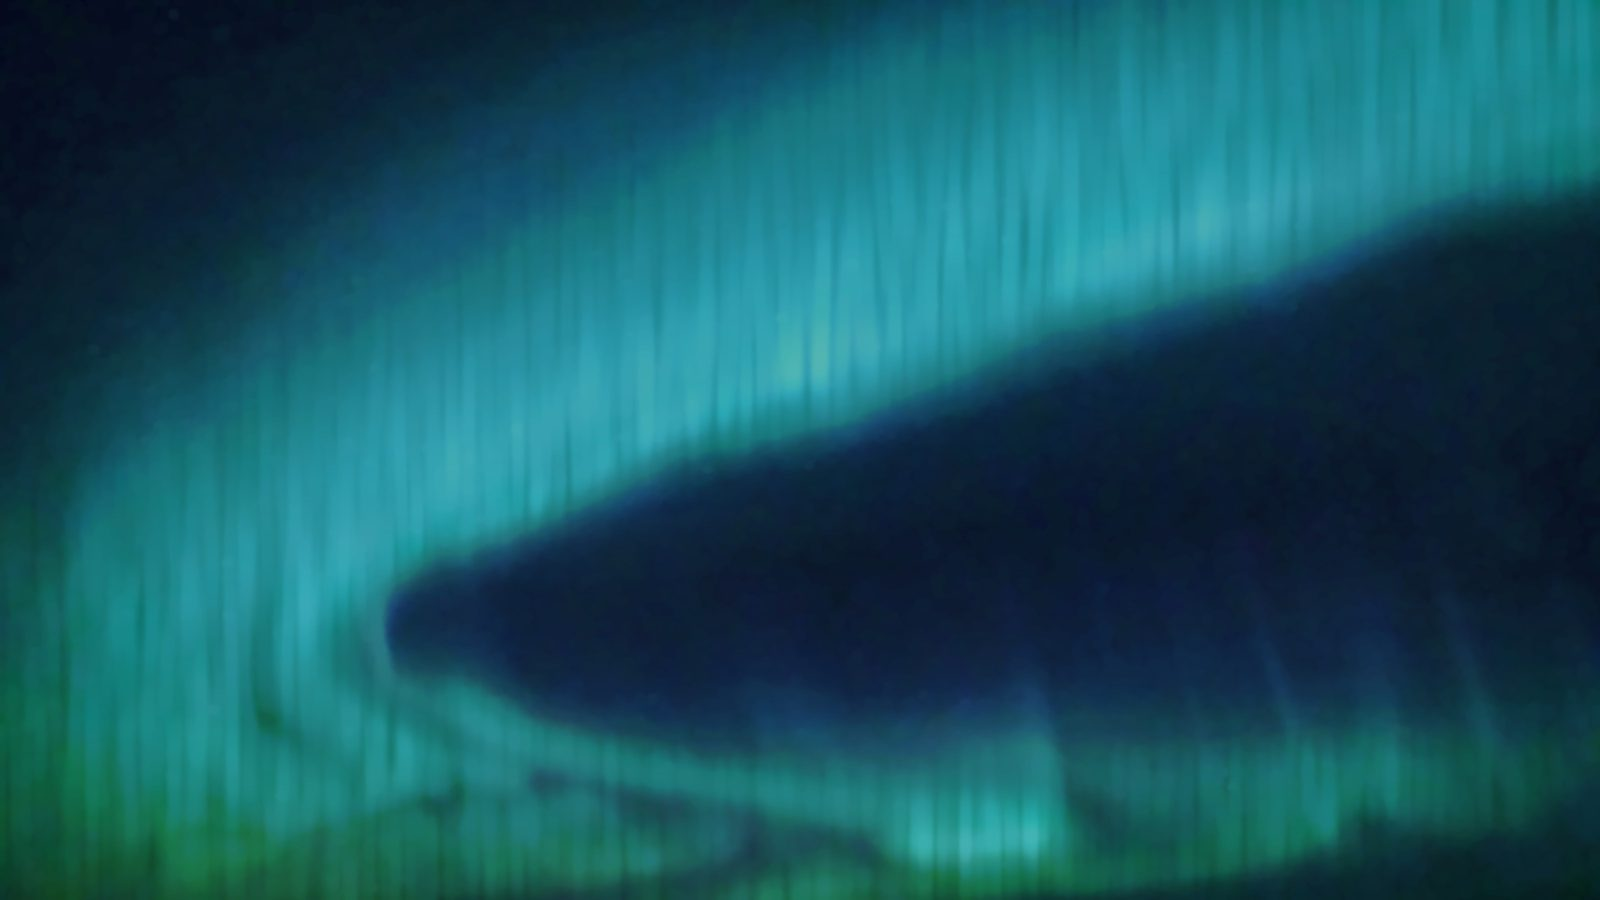
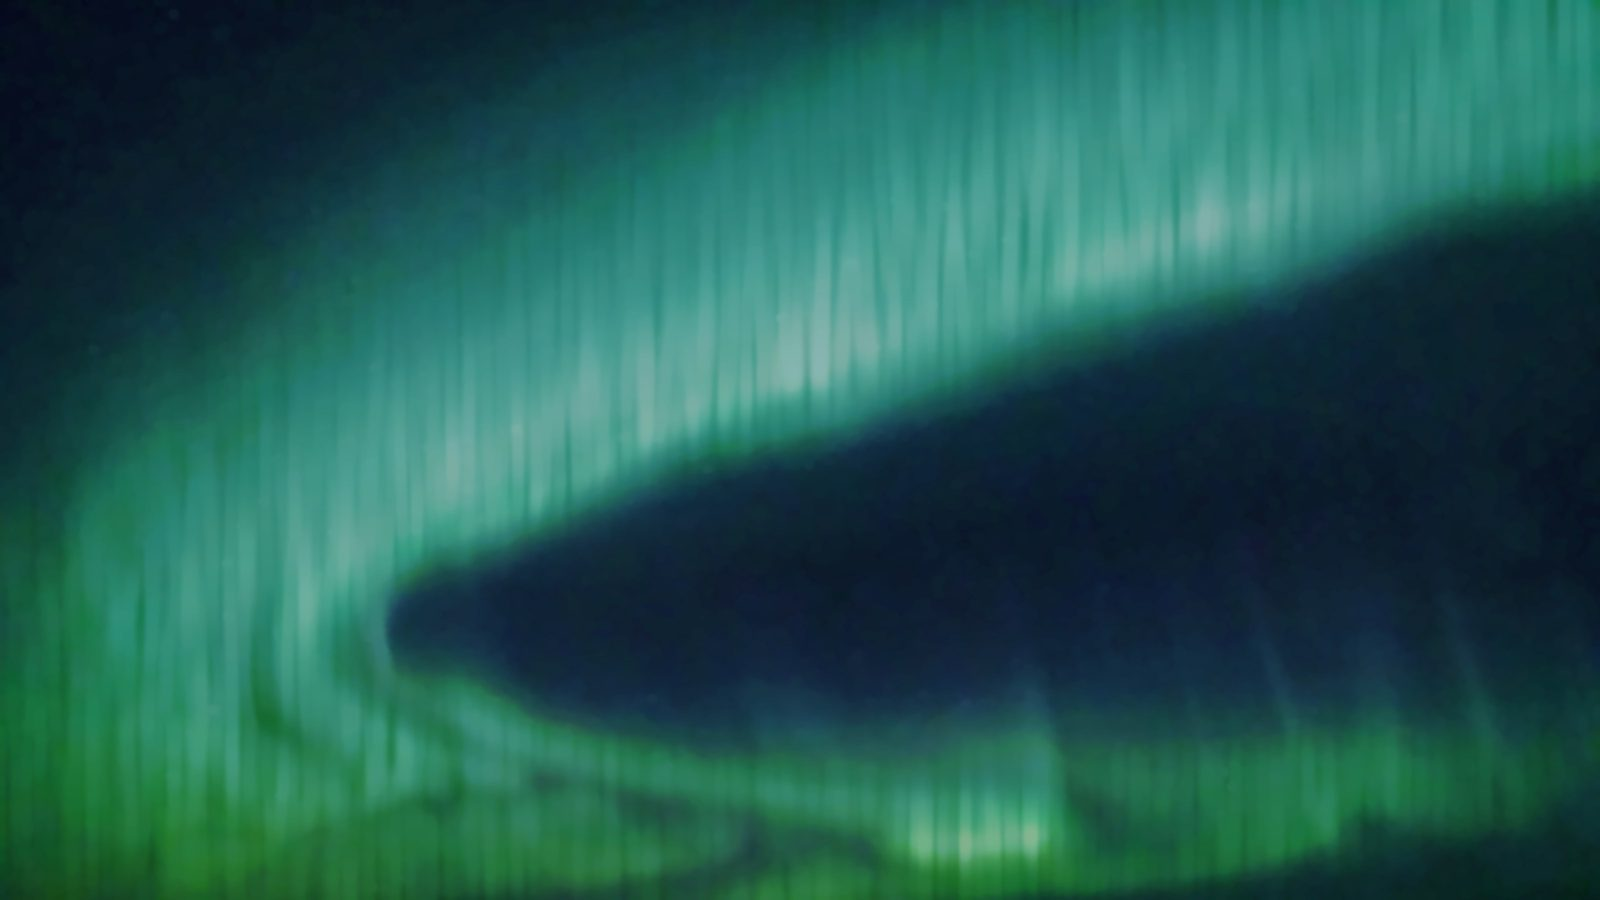
Apply the final design with Syne font and neon buttons
- Softer green aurora photo, Syne bold for all text
- Neon logo tile in the header and the search button, neon outlines on the main buttons
- New home page texts and a business count above the list

diff --git a/web/src/app/page.tsx b/web/src/app/page.tsx
@@ -41,19 +41,17 @@ export default async function Home({searchParams}: HomeProps) {
         <main className={styles.main}>
             <section className={styles.hero}>
                 <div>
-                    <h1 className={styles.heroTitle}>Bestill time hos lokale bedrifter</h1>
-                    <p className={styles.heroLead}>
-                        Frisør, håndverker eller psykolog – finn ledig tid og bestill på under ett minutt.
-                    </p>
+                    <h1 className={styles.heroTitle}>Magiske opplevelser med din besti.</h1>
+                    <p className={styles.heroLead}>Finn og bestill på under ett minutt.</p>
                 </div>
                 <Form action="/" className={styles.filters}>
                     <label className={styles.field}>
-                        Hva leter du etter?
+                        Hva vil du oppleve med besti?
                         <input
                             name="q"
                             type="search"
                             defaultValue={q ?? ""}
-                            placeholder="F.eks. herreklipp eller fliser"
+                            placeholder="Frisør, dekkskift, massasje"
                         />
                     </label>
                     <label className={styles.field}>
@@ -67,7 +65,7 @@ export default async function Home({searchParams}: HomeProps) {
                         </select>
                     </label>
                     <label className={styles.field}>
-                        Kategori
+                        Hva vil du finne med Besti?
                         <select name="category" defaultValue={category ?? ""}>
                             <option value="">Alle kategorier</option>
                             {categoryOptionGroups.map((group) => (
@@ -80,12 +78,12 @@ export default async function Home({searchParams}: HomeProps) {
                         </select>
                     </label>
                     <label className={styles.field}>
-                        By
+                        Finn lokale Besti-bedrifter
                         <input
                             name="city"
                             list="city-list"
                             defaultValue={city ?? ""}
-                            placeholder="F.eks. Oslo"
+                            placeholder="Gjøvik, Oslo, Bergen"
                             autoComplete="off"
                         />
                         <datalist id="city-list">
@@ -95,11 +93,11 @@ export default async function Home({searchParams}: HomeProps) {
                         </datalist>
                     </label>
                     <label className={styles.field}>
-                        Når
+                        Når har du tid?
                         <input name="date" type="date" defaultValue={date ?? ""} min={todayInOslo()}/>
                     </label>
                     <label className={styles.field}>
-                        Tid på dagen
+                        Beste tidspunkt
                         <select name="tid" defaultValue={tid ?? ""}>
                             <option value="">Hele dagen</option>
                             <option value="formiddag">Før kl. 12</option>
@@ -108,8 +106,8 @@ export default async function Home({searchParams}: HomeProps) {
                         </select>
                     </label>
                     <button type="submit" className={styles.searchButton}>
-                        {/* eslint-disable-next-line @next/next/no-img-element -- small SVG logo, next/image not needed */}
-                        <img src="/logo/besti-pin.svg" alt="" width={28} height={30} className={styles.searchIcon}/>
+                        {/* eslint-disable-next-line @next/next/no-img-element -- small logo, next/image not needed */}
+                        <img src="/logo/besti-kafelek.png" alt="" width={56} height={56} className={styles.searchIcon}/>
                         Finn besti time
                     </button>
                     {lat && lng && (
@@ -124,7 +122,7 @@ export default async function Home({searchParams}: HomeProps) {
                     <NearMeButton/>
                 </Form>
             </section>
-            <h2 className={styles.listTitle}>Bedrifter</h2>
+            <h2 className={styles.listTitle}>Lokale Besti-bedrifter</h2>
             {lat && lng && (
                 <p className={styles.subtitle}>
                     📍 {sorter ? "Nær deg" : "Sortert etter avstand fra deg"} ·{" "}
@@ -231,6 +229,9 @@ async function Results(search: SearchProps) {
 
     return (
         <>
+            <p className={styles.count}>
+                {result.totalCount} {result.totalCount === 1 ? "bedrift" : "bedrifter"}{city ? ` i ${city}` : ""}
+            </p>
             <ul className={styles.grid}>
                 {businesses.map((business) => (
                     <li key={business.id}>

diff --git a/web/src/components/Header/Header.module.css b/web/src/components/Header/Header.module.css
@@ -24,21 +24,21 @@
     gap: 8px;
     text-decoration: none;
 }
-/* Pin with B (public/logo/besti-pin.svg); its glow needs room, hence the negative margins */
+/* Neon B with a pin on a dark tile (public/logo/besti-kafelek.png), with its own glow */
 .logoImage {
     display: block;
-    height: 44px;
-    width: auto;
-    margin: -6px -6px -6px -10px;
+    height: 56px;
+    width: 56px;
+    object-fit: contain;
 }
 
 .word {
     font-family: var(--font-heading);
-    font-weight: 600;
-    font-size: 1.55rem;
+    font-weight: 700;
+    font-size: 1.65rem;
     letter-spacing: -0.01em;
-    color: var(--color-primary);
-    filter: drop-shadow(0 0 8px rgba(114, 214, 189, 0.45));
+    color: #8be8c9;
+    filter: drop-shadow(0 0 8px rgba(139, 232, 201, 0.45));
 }
 /* Small "Beta" badge next to the logo while the first businesses test BESTI */
 .beta {
@@ -74,20 +74,37 @@
 .ctaLink {
     display: inline-flex;
     align-items: center;
-    min-height: 40px;
+    min-height: 46px;
     padding: 0 16px;
+    border: 2px solid transparent;
     border-radius: 999px;
-    background: var(--color-primary);
+    background: linear-gradient(var(--color-primary), var(--color-primary)) padding-box, var(--neon-border) border-box;
     color: var(--color-on-primary);
     font-family: var(--font-heading);
-    font-weight: 600;
-    box-shadow: 0 0 10px rgba(114, 214, 189, 0.25);
+    font-weight: 700;
+    box-shadow: var(--neon-glow);
     text-decoration: none;
     white-space: nowrap;
 }
 
 .ctaLink:hover {
-    background: var(--color-primary-dark);
+    background: linear-gradient(var(--color-primary-dark), var(--color-primary-dark)) padding-box, var(--neon-border) border-box;
+}
+
+/* "Logg inn": dark with the same neon outline */
+.loginLink {
+    display: inline-flex;
+    align-items: center;
+    min-height: 46px;
+    padding: 0 16px;
+    border: 2px solid transparent;
+    border-radius: 999px;
+    background: linear-gradient(rgba(6, 22, 30, 0.72), rgba(6, 22, 30, 0.72)) padding-box, var(--neon-border) border-box;
+    box-shadow: 0 0 10px rgba(90, 240, 120, 0.3), 0 0 20px rgba(40, 200, 232, 0.2), inset 0 0 12px rgba(114, 214, 189, 0.12);
+    color: #d9fff2;
+    font-weight: 700;
+    text-decoration: none;
+    white-space: nowrap;
 }
 
 .greeting {
@@ -120,7 +137,8 @@
     }
 
     .logoImage {
-        height: 38px;
+        height: 52px;
+        width: 52px;
     }
 
     .word {
@@ -132,12 +150,14 @@
     }
 
     .nav {
-        gap: 2px;
+        gap: 6px;
     }
 
-    .ctaLink {
-        padding: 0 12px;
-        font-size: 0.92rem;
+    .ctaLink,
+    .loginLink {
+        min-height: 40px;
+        padding: 0 10px;
+        font-size: 0.82rem;
     }
 }
 /* The bell with the number of unread notifications */

diff --git a/web/src/components/NearMeButton/NearMeButton.tsx b/web/src/components/NearMeButton/NearMeButton.tsx
@@ -34,7 +34,23 @@ export default function NearMeButton() {
     return (
         <div className={styles.wrapper}>
             <button type="button" onClick={findMe} className={styles.button} disabled={status === "finding"}>
-                {status === "finding" ? "Finner deg …" : "📍 Nær meg"}
+                {status === "finding" ? "Finner deg …" : (
+                    <>
+                        {/* Neon map pin, same green to turquoise as the button outlines */}
+                        <svg className={styles.pin} viewBox="0 0 24 30" width="20" height="25" aria-hidden="true">
+                            <defs>
+                                <linearGradient id="besti-pin-gradient" x1="0" y1="0" x2="0" y2="1">
+                                    <stop offset="0" stopColor="#5af05e"/>
+                                    <stop offset="1" stopColor="#28c9e8"/>
+                                </linearGradient>
+                            </defs>
+                            <path d="M12 2.2c-4.9 0-8.8 3.8-8.8 8.6 0 5.9 6.5 12.1 8 14.1.4.5 1.2.5 1.6 0 1.5-2 8-8.2 8-14.1 0-4.8-3.9-8.6-8.8-8.6z"
+                                  fill="none" stroke="url(#besti-pin-gradient)" strokeWidth="2.2" strokeLinejoin="round"/>
+                            <circle cx="12" cy="10.8" r="3.4" fill="none" stroke="url(#besti-pin-gradient)" strokeWidth="2.2"/>
+                        </svg>
+                        Nær meg
+                    </>
+                )}
             </button>
             {status === "denied" && (
                 <p className={styles.denied} role="alert">

diff --git a/web/src/components/Header/Header.tsx b/web/src/components/Header/Header.tsx
@@ -18,9 +18,9 @@ export default async function Header() {
         <header className={styles.header}>
             <div className={styles.inner}>
                 <NextLink href="/" className={styles.logo} aria-label="BESTI – til forsiden">
-                    {/* eslint-disable-next-line @next/next/no-img-element -- small SVG logo, next/image not needed */}
-                    <img src="/logo/besti-pin.svg" alt="" width={42} height={44} className={styles.logoImage}/>
-                    <span className={styles.word}>besti</span>
+                    {/* eslint-disable-next-line @next/next/no-img-element -- small logo, next/image not needed */}
+                    <img src="/logo/besti-kafelek.png" alt="" width={56} height={56} className={styles.logoImage}/>
+                    <span className={styles.word}>Besti</span>
                     <span className={styles.beta}>Beta</span>
                 </NextLink>
                 <nav className={styles.nav}>
@@ -45,7 +45,7 @@ export default async function Header() {
                         </>
                     ) : (
                         <>
-                            <NextLink href="/logg-inn" className={styles.navLink}>Logg inn</NextLink>
+                            <NextLink href="/logg-inn" className={styles.loginLink}>Logg inn</NextLink>
                             <NextLink href="/registrer-bedrift" className={styles.ctaLink}>Registrer bedrift</NextLink>
                         </>
                     )}

diff --git a/web/src/app/page.module.css b/web/src/app/page.module.css
@@ -60,29 +60,29 @@
 .searchButton {
     font: inherit;
     font-family: var(--font-heading);
-    font-weight: 600;
+    font-weight: 700;
     font-size: 1.1rem;
     letter-spacing: 0.01em;
     margin-top: 4px;
     min-height: 52px;
     padding: 0 24px;
-    border: none;
+    border: 2px solid transparent;
     border-radius: 999px;
-    background: var(--color-primary);
+    background: linear-gradient(var(--color-primary), var(--color-primary)) padding-box, var(--neon-border) border-box;
     color: var(--color-on-primary);
     display: flex;
     align-items: center;
     justify-content: center;
     gap: 8px;
-    box-shadow: 0 0 0 1px rgba(255, 255, 255, 0.25) inset, 0 0 14px rgba(114, 214, 189, 0.3), 0 0 36px rgba(114, 214, 189, 0.12);
+    box-shadow: var(--neon-glow);
     cursor: pointer;
 }
 
-/* The logo in the button, dark like the text */
+/* The neon logo tile in the button; its glow may spill over the edges */
 .searchIcon {
-    height: 28px;
-    width: auto;
-    filter: brightness(0) saturate(100%) opacity(0.85);
+    height: 56px;
+    width: 56px;
+    margin: -10px -4px -10px -8px;
 }
 
 /* Title and lead straight on the northern lights, the search card next to it on a computer */
@@ -104,6 +104,12 @@
     margin: 0;
     color: #f4fbf8;
     text-shadow: 0 1px 14px rgba(2, 12, 16, 0.6);
+}
+
+/* "12 bedrifter i Gjøvik" above the cards */
+.count {
+    margin: 0 0 16px;
+    color: #dcebe6;
 }
 
 .listTitle {

diff --git a/web/src/app/layout.tsx b/web/src/app/layout.tsx
@@ -1,5 +1,5 @@
 import type { Metadata, Viewport } from "next";
-import { Inter, Lexend } from "next/font/google";
+import { Syne } from "next/font/google";
 import "./globals.css";
 import Header from "../components/Header/Header";
 import Footer from "../components/Footer/Footer";
@@ -7,19 +7,11 @@ import { ALLOW_INDEXING, SITE_URL } from "@/lib/site";
 import Aurora from "../components/Aurora/Aurora";
 import Analytics from "../components/Analytics/Analytics";
 
-// Headings, buttons and form fields
-const lexend = Lexend({
+// The only font in BESTI: Syne bold for all text (Ada's final design, 2026-10-30)
+const syne = Syne({
     subsets: ["latin", "latin-ext"],
-    weight: ["400", "500", "600", "700"],
-    variable: "--font-lexend",
-    display: "swap",
-});
-
-// Small text and descriptions
-const inter = Inter({
-    subsets: ["latin", "latin-ext"],
-    weight: ["400", "500", "600"],
-    variable: "--font-inter",
+    weight: ["700"],
+    variable: "--font-syne",
     display: "swap",
 });
 
@@ -43,7 +35,7 @@ export const viewport: Viewport = {
 
 export default function RootLayout({ children }: { children: React.ReactNode }) {
     return (
-        <html lang="nb" className={`${lexend.variable} ${inter.variable}`}>
+        <html lang="nb" className={syne.variable}>
         <body>
         <Aurora />
         <Header />

diff --git a/web/src/app/globals.css b/web/src/app/globals.css
@@ -19,8 +19,11 @@
   --color-success: #8fd6a0;
   --color-warning: #f2c46d;
   --color-danger: #ff9b85;
-  --font-heading: var(--font-lexend), system-ui, sans-serif;
-  --font-body: var(--font-inter), system-ui, sans-serif;
+  /* Neon outline of the main buttons (green to turquoise) */
+  --neon-border: linear-gradient(180deg, #5af05e, #28c9e8);
+  --neon-glow: 0 0 10px rgba(90, 240, 120, 0.45), 0 0 22px rgba(40, 200, 232, 0.3), inset 0 0 0 1px rgba(255, 255, 255, 0.25);
+  --font-heading: var(--font-syne), system-ui, sans-serif;
+  --font-body: var(--font-syne), system-ui, sans-serif;
 }
 
 *, *::before, *::after {
@@ -33,7 +36,7 @@ html {
 body {
   margin: 0;
   font-family: var(--font-body);
-  font-weight: 500;
+  font-weight: 700;
   font-size: 16px;
   line-height: 1.5;
   background-color: var(--color-bg);
@@ -57,18 +60,18 @@ button:disabled {
   cursor: progress;
 }
 
-/* Headings, buttons and form fields in Lexend, small text in Inter */
+/* Headings, buttons and form fields (all text is Syne bold) */
 :where(h1, h2, h3, h4, button, input, select, textarea, label) {
   font-family: var(--font-heading);
 }
 
 h1, h2, h3 {
   color: var(--color-heading);
-  font-weight: 600;
+  font-weight: 700;
 }
 
 h1 {
-  letter-spacing: -0.015em;
+  letter-spacing: -0.02em;
   text-shadow: 0 2px 18px rgba(2, 12, 16, 0.55);
 }
 

diff --git a/web/src/components/NearMeButton/NearMeButton.module.css b/web/src/components/NearMeButton/NearMeButton.module.css
@@ -15,7 +15,14 @@
     border-radius: 999px;
     background: none;
     color: var(--color-heading);
+    display: inline-flex;
+    align-items: center;
+    gap: 8px;
     cursor: pointer;
+}
+
+.pin {
+    filter: drop-shadow(0 0 5px rgba(60, 230, 170, 0.55));
 }
 
 .button:hover {
